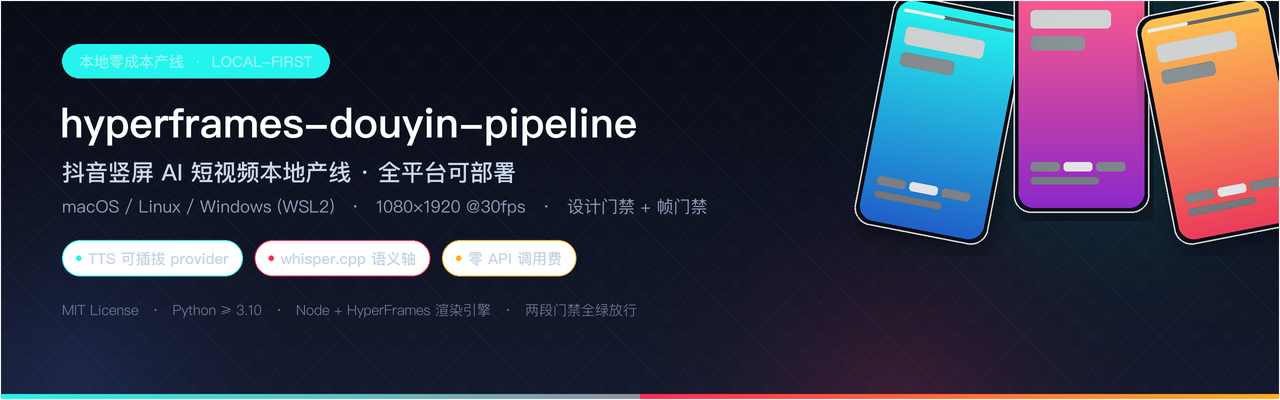
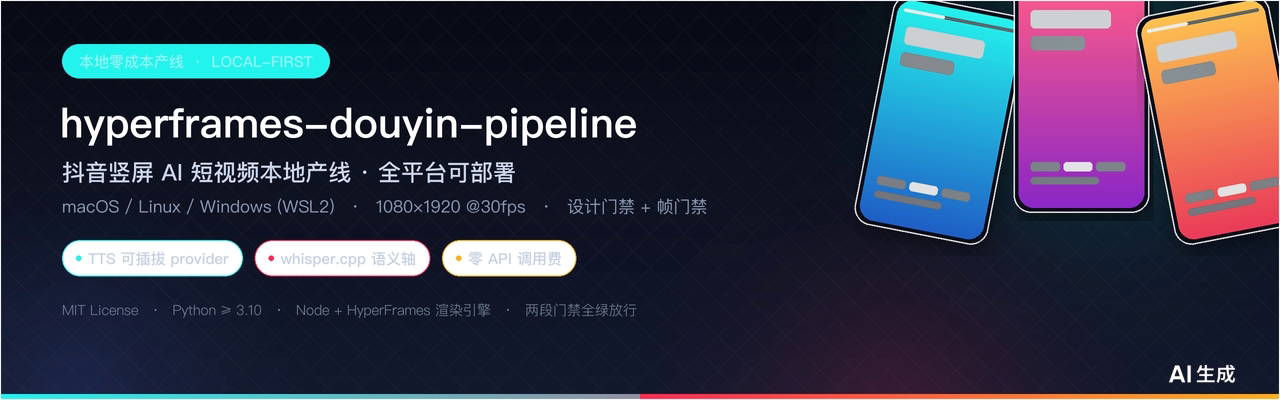
refactor: 按评审意见补CI、静默异常加日志、素材挪至story/examples、README front matter调整

diff --git a/scripts/param_contract.py b/scripts/param_contract.py
@@ -36,6 +36,7 @@ from __future__ import annotations
 import argparse
 import hashlib
 import json
+import logging
 import os
 import re
 import shutil
@@ -150,8 +151,8 @@ def file_fingerprint(path):
         try:
             return {"sha256": sha256_file(path), "mode": "full-content",
                     "size_bytes": size, "mtime": int(st.st_mtime)}
-        except Exception:
-            pass
+        except Exception as exc:
+            logging.getLogger(__name__).warning("param_contract 文件全量哈希失败 %s: %r", path, exc)
     # 超大文件：头部 4MB + 尾部 4MB 的分段哈希
     h = hashlib.sha256()
     with open(path, "rb") as f:
@@ -177,7 +178,8 @@ def dir_fingerprint(path, deep=False):
             fp = os.path.join(root, name)
             try:
                 st = os.stat(fp)
-            except Exception:
+            except Exception as exc:
+                logging.getLogger(__name__).warning("param_contract stat 失败 %s: %r", fp, exc)
                 continue
             rel = os.path.relpath(fp, path)
             total += st.st_size
@@ -338,8 +340,8 @@ def parse_tts(root, model_dir):
             raw = m.group(1)
             try:
                 out["sampling_params"][k] = float(raw) if ("." in raw or "e" in raw.lower()) else int(raw)
-            except ValueError:
-                pass
+            except ValueError as exc:
+                logging.getLogger(__name__).warning("param_contract 采样参数解析失败 %s=%r: %r", k, raw, exc)
     if "seed" not in out["sampling_params"]:
         m = re.search(r'^\s*SEED\s*=\s*([0-9]+)', txt, re.M)
         if m:
@@ -400,7 +402,8 @@ def parse_story_dir(story_dir):
             if name.endswith((".log", ".txt")):
                 try:
                     t = open(os.path.join(root, name), "r", encoding="utf-8", errors="ignore").read()
-                except Exception:
+                except Exception as exc:
+                    logging.getLogger(__name__).warning("param_contract 读取降级日志失败 %s: %r", os.path.join(root, name), exc)
                     continue
                 if re.search(r"downgrad|降级|fallback|回退", t, re.I):
                     flags.append(os.path.relpath(os.path.join(root, name), story_dir))

diff --git a/scripts/frame_audit.py b/scripts/frame_audit.py
@@ -43,6 +43,7 @@ frame_audit.py —— 渲染后抽帧断言（成片质量门禁第 2 段）
 import argparse
 import hashlib
 import json
+import logging
 import os
 import re
 import subprocess
@@ -573,8 +574,8 @@ def psnr_compare(video_a, video_b):
     finally:
         try:
             os.remove(stats_path)
-        except OSError:
-            pass
+        except OSError as exc:
+            logging.getLogger(__name__).warning("frame_audit 清理临时统计文件失败 %s: %r", stats_path, exc)
     if not vals:
         raise InputError("A0 未取到任何 psnr 统计行")
     finite = [v for v in vals if v != float("inf")]
@@ -1037,15 +1038,16 @@ def _story_bitrate_entries(raw):
                 continue
             try:
                 out[str(tgt)] = float(val)
-            except (TypeError, ValueError):
+            except (TypeError, ValueError) as exc:
+                logging.getLogger(__name__).warning("frame_audit 码率值转浮点失败 %s=%r: %r", tgt, val, exc)
                 continue
     for key in ("mib_per_s", "ref_mib_per_s", "bitrate_ref_mib_per_s"):
         if raw.get(key) is not None:
             try:
                 out.setdefault("__flat__", float(raw[key]) if not isinstance(raw[key], str)
                                else float(raw[key]))
-            except (TypeError, ValueError):
-                pass
+            except (TypeError, ValueError) as exc:
+                logging.getLogger(__name__).warning("frame_audit __flat__ 码率转浮点失败 %s=%r: %r", key, raw[key], exc)
             break
     return out
 
@@ -1069,8 +1071,8 @@ def write_story_bitrate_baseline(base_dir, video, meta):
                     entries[tgt] = {"target": tgt, "mib_per_s": val,
                                     "size_bytes": None, "duration_s": None,
                                     "captured_from": "preserved", "captured_sha256": None}
-        except (OSError, ValueError):
-            pass
+        except (OSError, ValueError) as exc:
+            logging.getLogger(__name__).warning("frame_audit 读取 bitrate 基线失败 %s: %r", meta_p, exc)
     raw = dict(entries.get(os.path.basename(video), {}))
     raw.update({
         "target": os.path.basename(video),

diff --git a/scripts/absorb_r2.py b/scripts/absorb_r2.py
@@ -23,6 +23,7 @@ from __future__ import annotations
 
 import argparse
 import datetime as _dt
+import logging
 import hashlib
 import json
 import os
@@ -362,8 +363,8 @@ def payloads_from_reality(cfg: dict, story: str) -> dict:
                 if line:
                     try:
                         receipts.append(json.loads(line))
-                    except Exception:
-                        pass
+                    except Exception as exc:
+                        logging.getLogger(__name__).warning("absorb_r2 读取回执台账: 行 JSON 解析失败: %r", exc)
     payloads["R2"] = {"allowed_states": cfg["receipt_states"]["states"],
                       "receipts": receipts,
                       "expect": "OK",
@@ -506,8 +507,8 @@ def append_receipt(state: str, request_id: str, note: str = "", retry_of: str = 
                 if line:
                     try:
                         existing.append(json.loads(line))
-                    except Exception:
-                        pass
+                    except Exception as exc:
+                        logging.getLogger(__name__).warning("absorb_r2 读取回执台账: 行 JSON 解析失败: %r", exc)
     for r in existing:
         if r.get("request_id") == request_id and r.get("state") == state:
             return dict(r, replayed=True)  # 幂等：同 request_id + 同状态不重复登记
@@ -571,8 +572,8 @@ def native_frame_diffs(mp4: str, w=270, h=480) -> list:
                 if "YAVG=" in line:
                     try:
                         vals.append(float(line.strip().split("YAVG=")[1]))
-                    except Exception:
-                        pass
+                    except Exception as exc:
+                        logging.getLogger(__name__).warning("absorb_r2 解析 YAVG 信号失败: %r", exc)
         return vals[1:]  # 第 1 帧无前帧，差分无意义
     finally:
         shutil.rmtree(tmp, ignore_errors=True)

diff --git a/scripts/canon_guard.py b/scripts/canon_guard.py
@@ -85,6 +85,7 @@ from __future__ import annotations
 
 import argparse
 import copy
+import logging
 import glob
 import hashlib
 import json
@@ -1022,7 +1023,8 @@ def _design_scan(files, rx_rules):
             try:
                 with open(f, encoding="utf-8", errors="ignore") as fh:
                     n += len(rx.findall(fh.read()))
-            except OSError:
+            except OSError as exc:
+                logging.getLogger(__name__).warning("canon_guard 读取文件统计命中失败 %s: %r", f, exc)
                 continue
         hits[rid] = n
     return hits

diff --git a/scripts/resource_peaks.py b/scripts/resource_peaks.py
@@ -39,6 +39,7 @@ from __future__ import annotations
 
 import argparse
 import json
+import logging
 import os
 import platform
 import re
@@ -116,7 +117,8 @@ def tree_rss_bytes(root_pid):
             continue
         try:
             pid, ppid, kb = int(parts[0]), int(parts[1]), int(parts[2])
-        except ValueError:
+        except ValueError as exc:
+            logging.getLogger(__name__).warning("resource_peaks 解析 ps 行失败 %r: %r", parts, exc)
             continue
         rss[pid] = kb * 1024
         children.setdefault(ppid, []).append(pid)

diff --git a/scripts/encode_profile.py b/scripts/encode_profile.py
@@ -57,6 +57,7 @@ from __future__ import annotations
 
 import argparse
 import json
+import logging
 import os
 import subprocess
 import sys
@@ -363,7 +364,8 @@ def probe_spec(path):
             if src and int(src) > 0:
                 vbitrate = int(src)
                 break
-        except Exception:  # noqa: BLE001
+        except Exception as exc:  # noqa: BLE001
+            logging.getLogger(__name__).warning("encode_profile 解析 bit_rate 失败: %r", exc)
             continue
     return {
         "vcodec": v.get("codec_name"),

diff --git a/scripts/pause_audit.py b/scripts/pause_audit.py
@@ -27,6 +27,7 @@
 """
 import argparse
 import json
+import logging
 import os
 import re
 import subprocess
@@ -142,7 +143,8 @@ def main() -> int:
     for x in raw_gaps:
         try:
             declared_gaps.append(float(x))
-        except (TypeError, ValueError):
+        except (TypeError, ValueError) as exc:
+            logging.getLogger(__name__).warning("pause_audit 声明 gap 转浮点失败 %r: %r", x, exc)
             continue
     missing = [l["i"] for l in lines if l["start"] is None or l["end"] is None]
     if missing:

diff --git a/README.md b/README.md
@@ -1,14 +1,3 @@
----
-AIGC:
-    Label: "1"
-    ContentProducer: 001191440300708461136T1XGW3
-    ProduceID: b82594f1be8e85c02fc42784acc7d5b8_67f6fb91c2f011f1884b525400cd780f
-    ReservedCode1: 9vi7Sem0u8Ioi55R+T9Lf7KYz3iKn8fioBNZ5nNLVkTbaoNARRmW/IhJTvJIHYNBENnXIAWYdBGgjPkOgkB/Nel42JpchVCOBnAQmmKPqYfqs/ZqDcdndkTEXNgpYpJiNlrMrB5CTzu62Z+hwI0qF1vHevKHS56tQTIZfr0RrguKqAvNM1E1KQ1om5U=
-    ContentPropagator: 001191440300708461136T1XGW3
-    PropagateID: b82594f1be8e85c02fc42784acc7d5b8_67f6fb91c2f011f1884b525400cd780f
-    ReservedCode2: 9vi7Sem0u8Ioi55R+T9Lf7KYz3iKn8fioBNZ5nNLVkTbaoNARRmW/IhJTvJIHYNBENnXIAWYdBGgjPkOgkB/Nel42JpchVCOBnAQmmKPqYfqs/ZqDcdndkTEXNgpYpJiNlrMrB5CTzu62Z+hwI0qF1vHevKHS56tQTIZfr0RrguKqAvNM1E1KQ1om5U=
----
-
 <div align="center">
   <img src="assets/banner.png" alt="hyperframes-douyin-pipeline — 抖音竖屏 AI 短视频本地产线" width="100%">
 </div>
@@ -334,3 +323,14 @@ A4 依赖 whisper.cpp（`whisper-cli`）与对应模型。未安装或未指定 
 - 1080×1920 / 30fps 为不变量，不得破坏
 - 跨平台原则：新增脚本禁止硬编码平台绝对路径，工具与字体一律走 `scripts/platform_env.py` 解析
 *（内容由AI生成，仅供参考）*
+
+---
+AIGC:
+    Label: "1"
+    ContentProducer: 001191440300708461136T1XGW3
+    ProduceID: b82594f1be8e85c02fc42784acc7d5b8_67f6fb91c2f011f1884b525400cd780f
+    ReservedCode1: 9vi7Sem0u8Ioi55R+T9Lf7KYz3iKn8fioBNZ5nNLVkTbaoNARRmW/IhJTvJIHYNBENnXIAWYdBGgjPkOgkB/Nel42JpchVCOBnAQmmKPqYfqs/ZqDcdndkTEXNgpYpJiNlrMrB5CTzu62Z+hwI0qF1vHevKHS56tQTIZfr0RrguKqAvNM1E1KQ1om5U=
+    ContentPropagator: 001191440300708461136T1XGW3
+    PropagateID: b82594f1be8e85c02fc42784acc7d5b8_67f6fb91c2f011f1884b525400cd780f
+    ReservedCode2: 9vi7Sem0u8Ioi55R+T9Lf7KYz3iKn8fioBNZ5nNLVkTbaoNARRmW/IhJTvJIHYNBENnXIAWYdBGgjPkOgkB/Nel42JpchVCOBnAQmmKPqYfqs/ZqDcdndkTEXNgpYpJiNlrMrB5CTzu62Z+hwI0qF1vHevKHS56tQTIZfr0RrguKqAvNM1E1KQ1om5U=
+---
